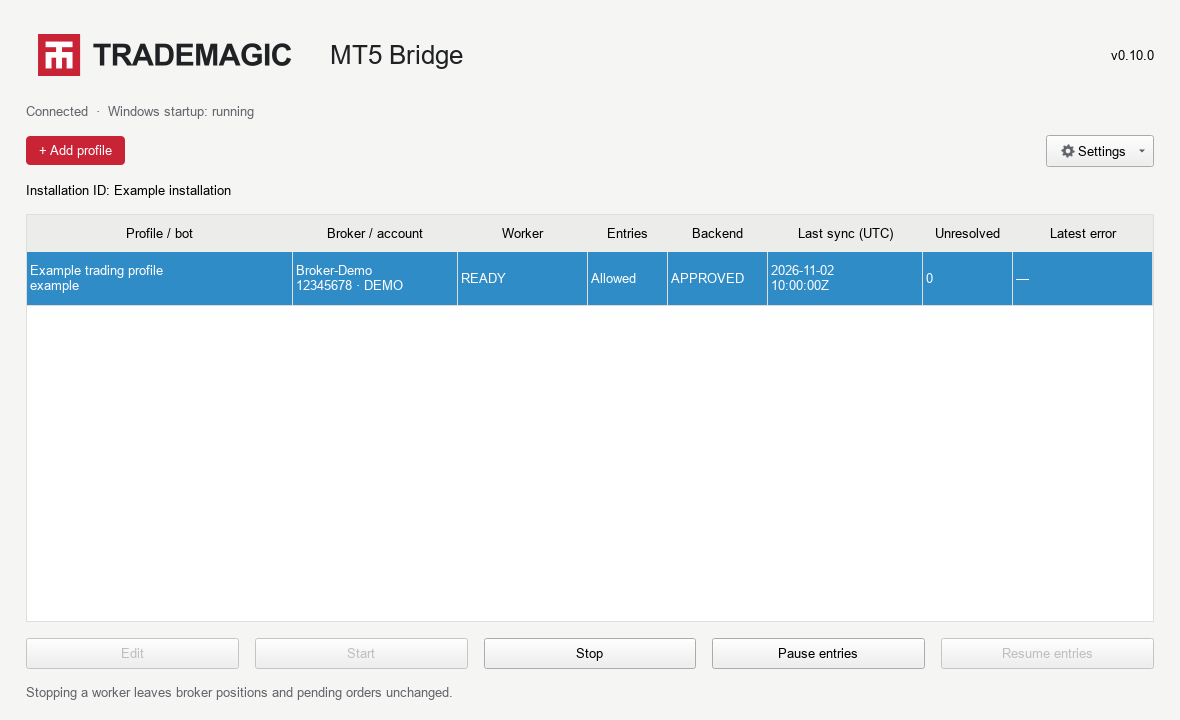
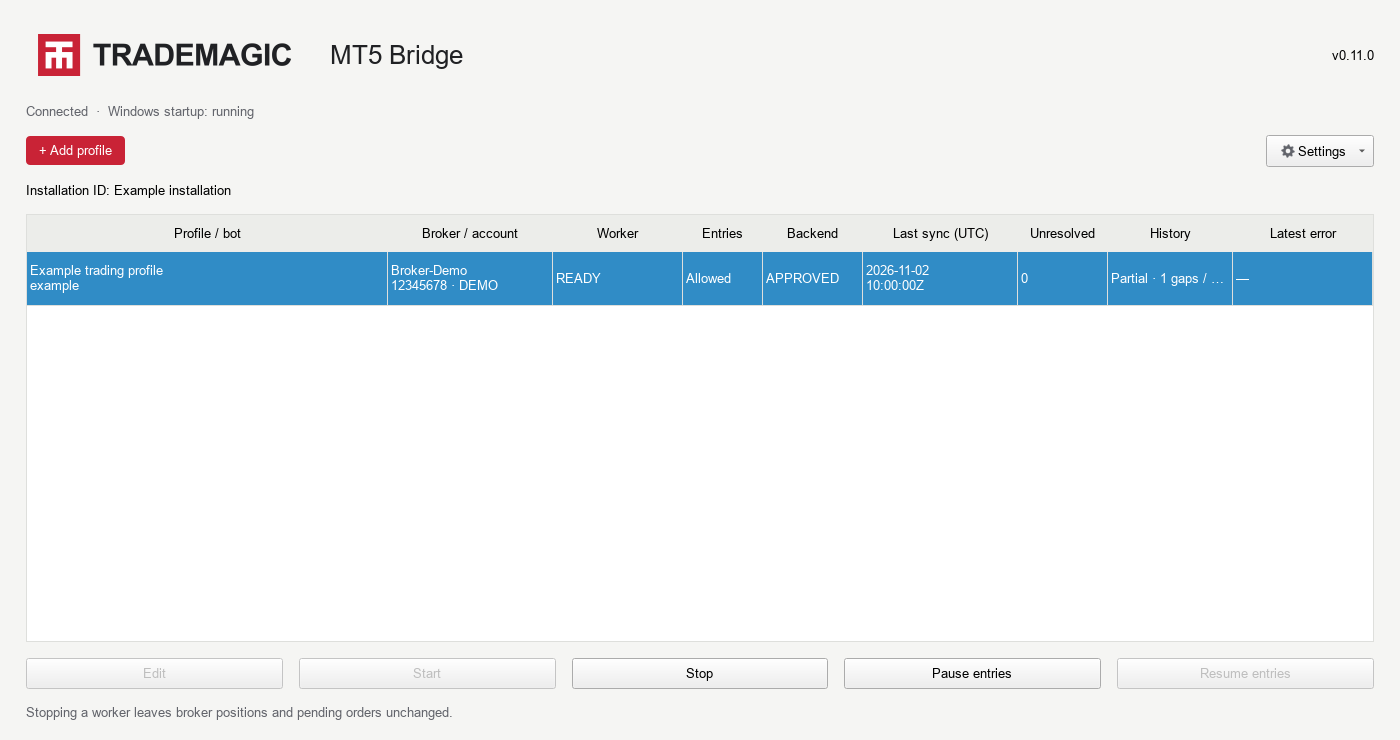
Document 0.11.0 verified history reporting and profile deletion

diff --git a/releases/v0.11.0.md b/releases/v0.11.0.md
@@ -1,0 +1,36 @@
+# TradeMagic MT5 Bridge 0.11.0
+
+- Automatic history reporting uploads independently verified time windows even when an earlier period lacks broker-clock evidence. Every gap remains explicit; it is never marked complete or assigned a guessed offset. Outbox acknowledgements advance each segment transactionally. Unconvertible order/deal records are retained for retry while valid records can continue uploading. A History column and exported status show partial coverage separately from trading readiness.
+- Settings > Delete profile offers local removal with a retained execution archive, or permanent backend-bot deletion followed by erasure of active local profile data, logs, journal and saved credentials. Exact typed confirmation, stopped-worker locks, fresh flat-account state and resolved execution are required. Permanent deletion requires the matching backend server update. Missing support or an uncertain response retains local data and fences execution; the same deletion request can be retried. Existing installer backups remain separate and are retained.
+- Deletion jobs run independently of the agent supervision loop. Other profiles remain responsive. A profile with pending deletion cannot start, resume, edit or test until the operation is resolved.
+- Reboot behavior is unchanged: a previously started, validated profile with Resume after Windows login can resume automatically. A manual Stop remains stopped. Upgrades deliberately pause profiles and clear validation, requiring one fresh connection test per profile before explicit restart.
+
+Reuse existing configuration when upgrading. History/local removal work with the existing backend. Permanent backend deletion requires a server deployment; the app will retain data if it is unavailable. No production bot or profile was deleted during release preparation.
+
+## 0.10.2
+
+
+Allows a stopped, unused LIVE profile that failed its account-environment check to be corrected to DEMO through Edit. The agent independently verifies that the journal contains no recorded session, execution, reporting or other runtime evidence. The bot/profile IDs, exact account, terminal and credential targets remain unchanged. The correction is audited, pauses entries, invalidates validation and requires a fresh connection test and explicit Start. Used profiles and changes from DEMO to LIVE remain locked. A save interrupted after the journal correction fails closed and can complete through the same Edit action without discarding evidence.
+
+Upgrade from 0.10.1 using Reuse existing configuration. No backend deployment is required.
+
+## 0.10.1
+
+Fixes a shared clock dependency that could block all instruments when the preferred clock symbol stopped receiving fresh ticks. Automatic clock verification now uses independent advancing samples from the preferred symbol and other non-custom symbols already selected in MT5 Market Watch. Stale sources do not cancel unexpired verified offset evidence, and do not renew it. Each trading command retains its own symbol-specific freshness/spread checks. If all clock sources become unavailable beyond the evidence lifetime, the profile still blocks. Time-trust failures still block; a changed offset requires advancing evidence and operator review. Diagnostics expose the source of the latest verified offset and the latest observation warning separately from clock readiness.
+
+Upgrade from 0.10.0 using Reuse existing configuration. The installer preserves account settings and journals. The Windows/backend clock-estimation threshold is unchanged; this release addresses stale-instrument isolation.
+
+## Initial public release: 0.10.0
+
+Initial public Windows x64 release, supporting explicitly selected Demo and Live accounts. Existing Demo profiles and journals migrate as Demo and cannot be silently repurposed for Live execution.
+
+- State-aware Edit, Start, Stop and Pause/Resume controls, including pending requests, connection tests and authoritative state refreshes.
+- Full agent shutdown hidden when Windows startup manages it; quitting only the configuration UI remains available.
+- Automatic broker-clock monitoring with persisted forward evidence and conservative handling of changes/gaps.
+- Account/terminal identity checks, backend-owned sizing and mapping, lease/ownership fences, durable command deduplication and evidence-based reconciliation.
+- Branded reinstall with Reuse/Fresh choices, retained journals, verified backups, bounded taskbar cleanup and removal of verified obsolete payloads.
+- Default history scope starts with the Bridge period when the backend supplies no explicit date; existing bounded history settings remain intact.
+
+Native acceptance has exercised one Demo account: market open/close, pending placement/modification/cancellation, SL/TP changes, partial close, terminal restart, backend interruption and completed-command worker restart. Live-account environment matching and protection against account/environment changes are covered by deterministic adapter tests; no live-money trade was submitted during release preparation. Fresh-install and multiple-account/provider rehearsals remain planned. The public release will be used for the continuing week-long run.
+
+This installer is unsigned. Third-party component notices and license texts are included in the installation's third-party directory. Historical account imports predating the Bridge period are outside the requested default scope. Unknown clock-history gaps are reported rather than fabricated.

diff --git a/docs/UPDATES.md b/docs/UPDATES.md
@@ -11,3 +11,20 @@ An installer failure leaves retained data and repair evidence. Do not use Fresh,
 New fixes are published as new versioned releases. Existing release assets should not be silently replaced with different bytes. The latest manifest and release notes identify the current version and installer hash. Updates are installed explicitly; this release does not silently replace a running trading process.
 
 For normal uninstall, use the in-app maintenance preparation first, then Windows uninstall. Trading data, journals and credentials are retained. Fresh installation and multiple-account/provider rehearsals will continue after the initial public release; their results and fixes will be reflected in subsequent release notes.
+
+
+## Reboot versus upgrade
+
+An ordinary reboot does not invalidate a profile's successful connection test. With Windows startup management and Resume after Windows login enabled, a profile that was explicitly Started can resume using its saved validation and entry intent. Clock evidence is learned again automatically; an old lease may need to expire. A manual Stop remains stopped. Saving changed configuration, rotating credentials, or installing an update requires another connection test. Upgrades pause entries and leave profiles stopped for explicit review and restart.
+
+## Remove or permanently delete a profile
+
+Stop the selected profile, then use Settings > Delete profile. Local removal hides it from the active list and removes its saved API/broker credentials while retaining its execution archive and backend bot. The archived bot identity remains reserved; use transfer or recovery rather than creating a duplicate profile for it.
+
+For permanent deletion, pause its backend dashboard bot, close its positions and pending orders, and resolve all execution. A recent coherent account snapshot is required; run Test connection if prompted, leaving the profile stopped. Type the exact confirmation shown. The backend checks the bot-scoped credential and authorized installation/profile, freezes new commands and sessions, and removes its bot definition and executor records. Only a matching confirmed deletion receipt permits erasing active local profile data and credentials. Installer backups and user-exported files remain separate and are not rewritten. The server retains a minimal deletion receipt/tombstone for safe retries.
+
+If confirmation is lost or cleanup is interrupted, the profile remains stopped with deletion pending. Retry the same scope through Delete profile; do not create a duplicate profile or clear its journal. Permanent backend deletion is unavailable until the supporting server patch is deployed; local data is retained when that endpoint is missing.
+
+## Partial broker-time history
+
+Verified history windows continue uploading around gaps caused by restarts, outages or missing clock evidence. History > Partial and exported unverified_gaps identify periods whose time conversion remains unverified. No gap is silently called complete, and deferred raw order/deal records are retained for retry. Adding verified historical intervals permits those periods to be revisited. A current verified clock allows normal instrument-specific trade checks even while historical coverage is partial. This does not import account history before the configured/default Bridge start.

diff --git a/README.md b/README.md
@@ -10,13 +10,15 @@ Supports explicitly configured **Demo and Live** MetaTrader 5 accounts. The back
 
 ## Install
 
-Download the Windows x64 installer and `SHA256SUMS.txt` from the same release. Compare the installer SHA-256 before running it. See [setup](docs/SETUP.md) for profile, account environment, connection testing and startup configuration. The initial public installer is **unsigned**.
+Download the Windows x64 installer and `SHA256SUMS.txt` from the same release. Compare the installer SHA-256 before running it. See [setup](docs/SETUP.md) for profile, account environment, connection testing and startup configuration. The installer is **unsigned**.
 
 ## Update
 
 Install the new release using **Reuse existing configuration**. Profiles stop and entries pause during maintenance; journals, identities and credentials are retained. Test the connection and explicitly restart/resume afterward. See [updates and recovery](docs/UPDATES.md).
 
 Fixes are published as new versioned releases. Existing release assets are not silently replaced with different bytes. This repository distributes installers, checksums, release notes and update metadata; development is handled separately. It does not grant public write access: pushes require an authorized owner, collaborator or repository deploy key.
+
+Version 0.11.0 lets verified history windows continue uploading around explicit clock-evidence gaps, and adds local profile removal plus confirmed permanent backend deletion. Permanent backend deletion requires server support; local data is retained if confirmation is unavailable. Ordinary reboot recovery reuses saved validation, while an upgrade requires fresh connection tests. See [update and deletion guidance](docs/UPDATES.md).
 
 ## Release status
 
